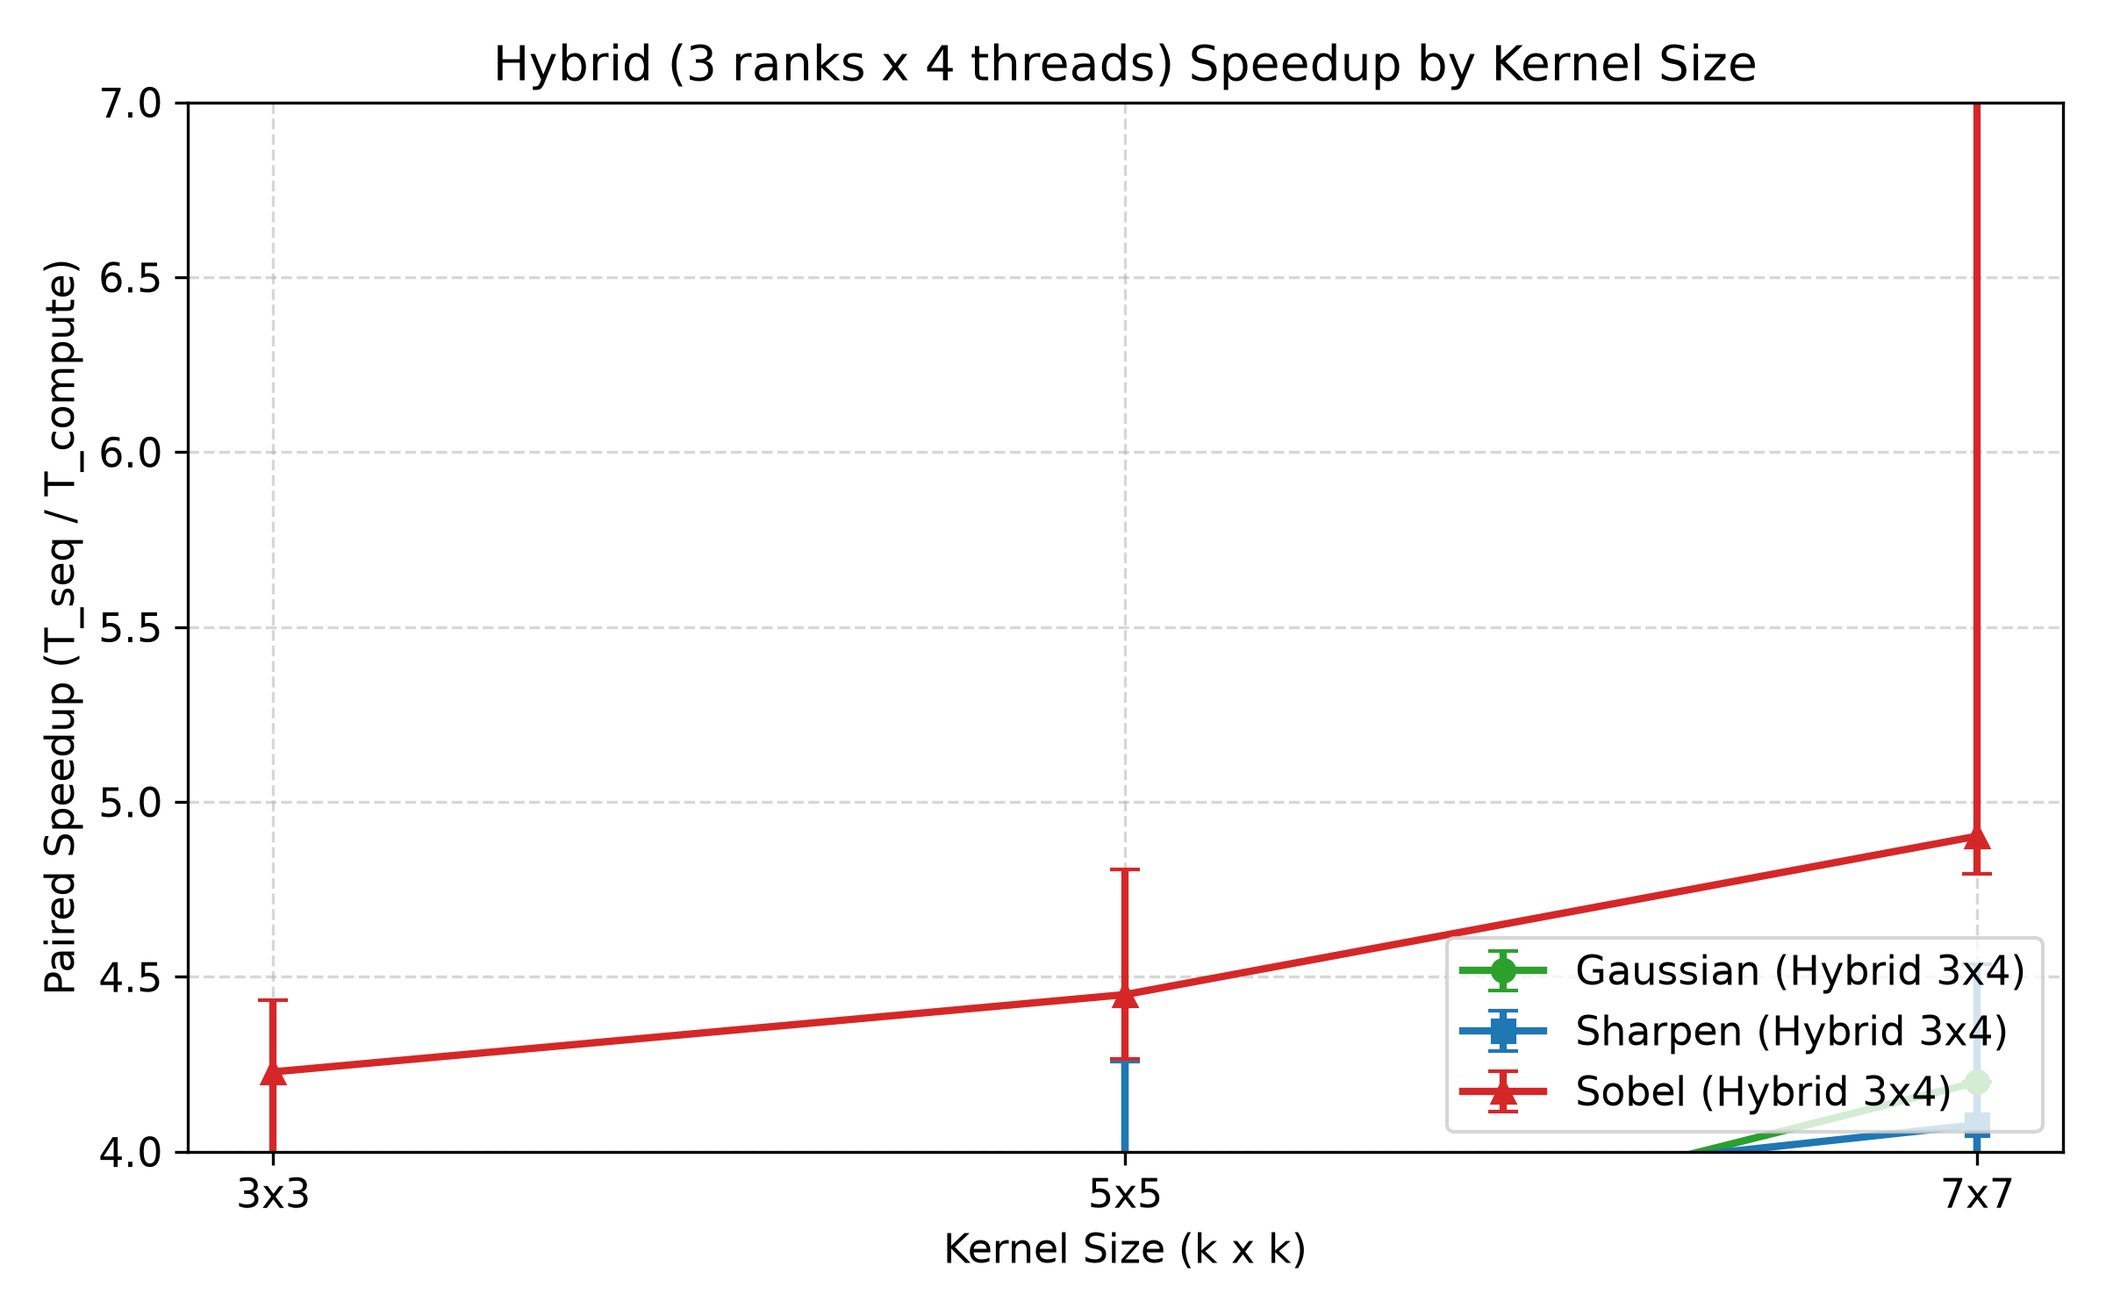
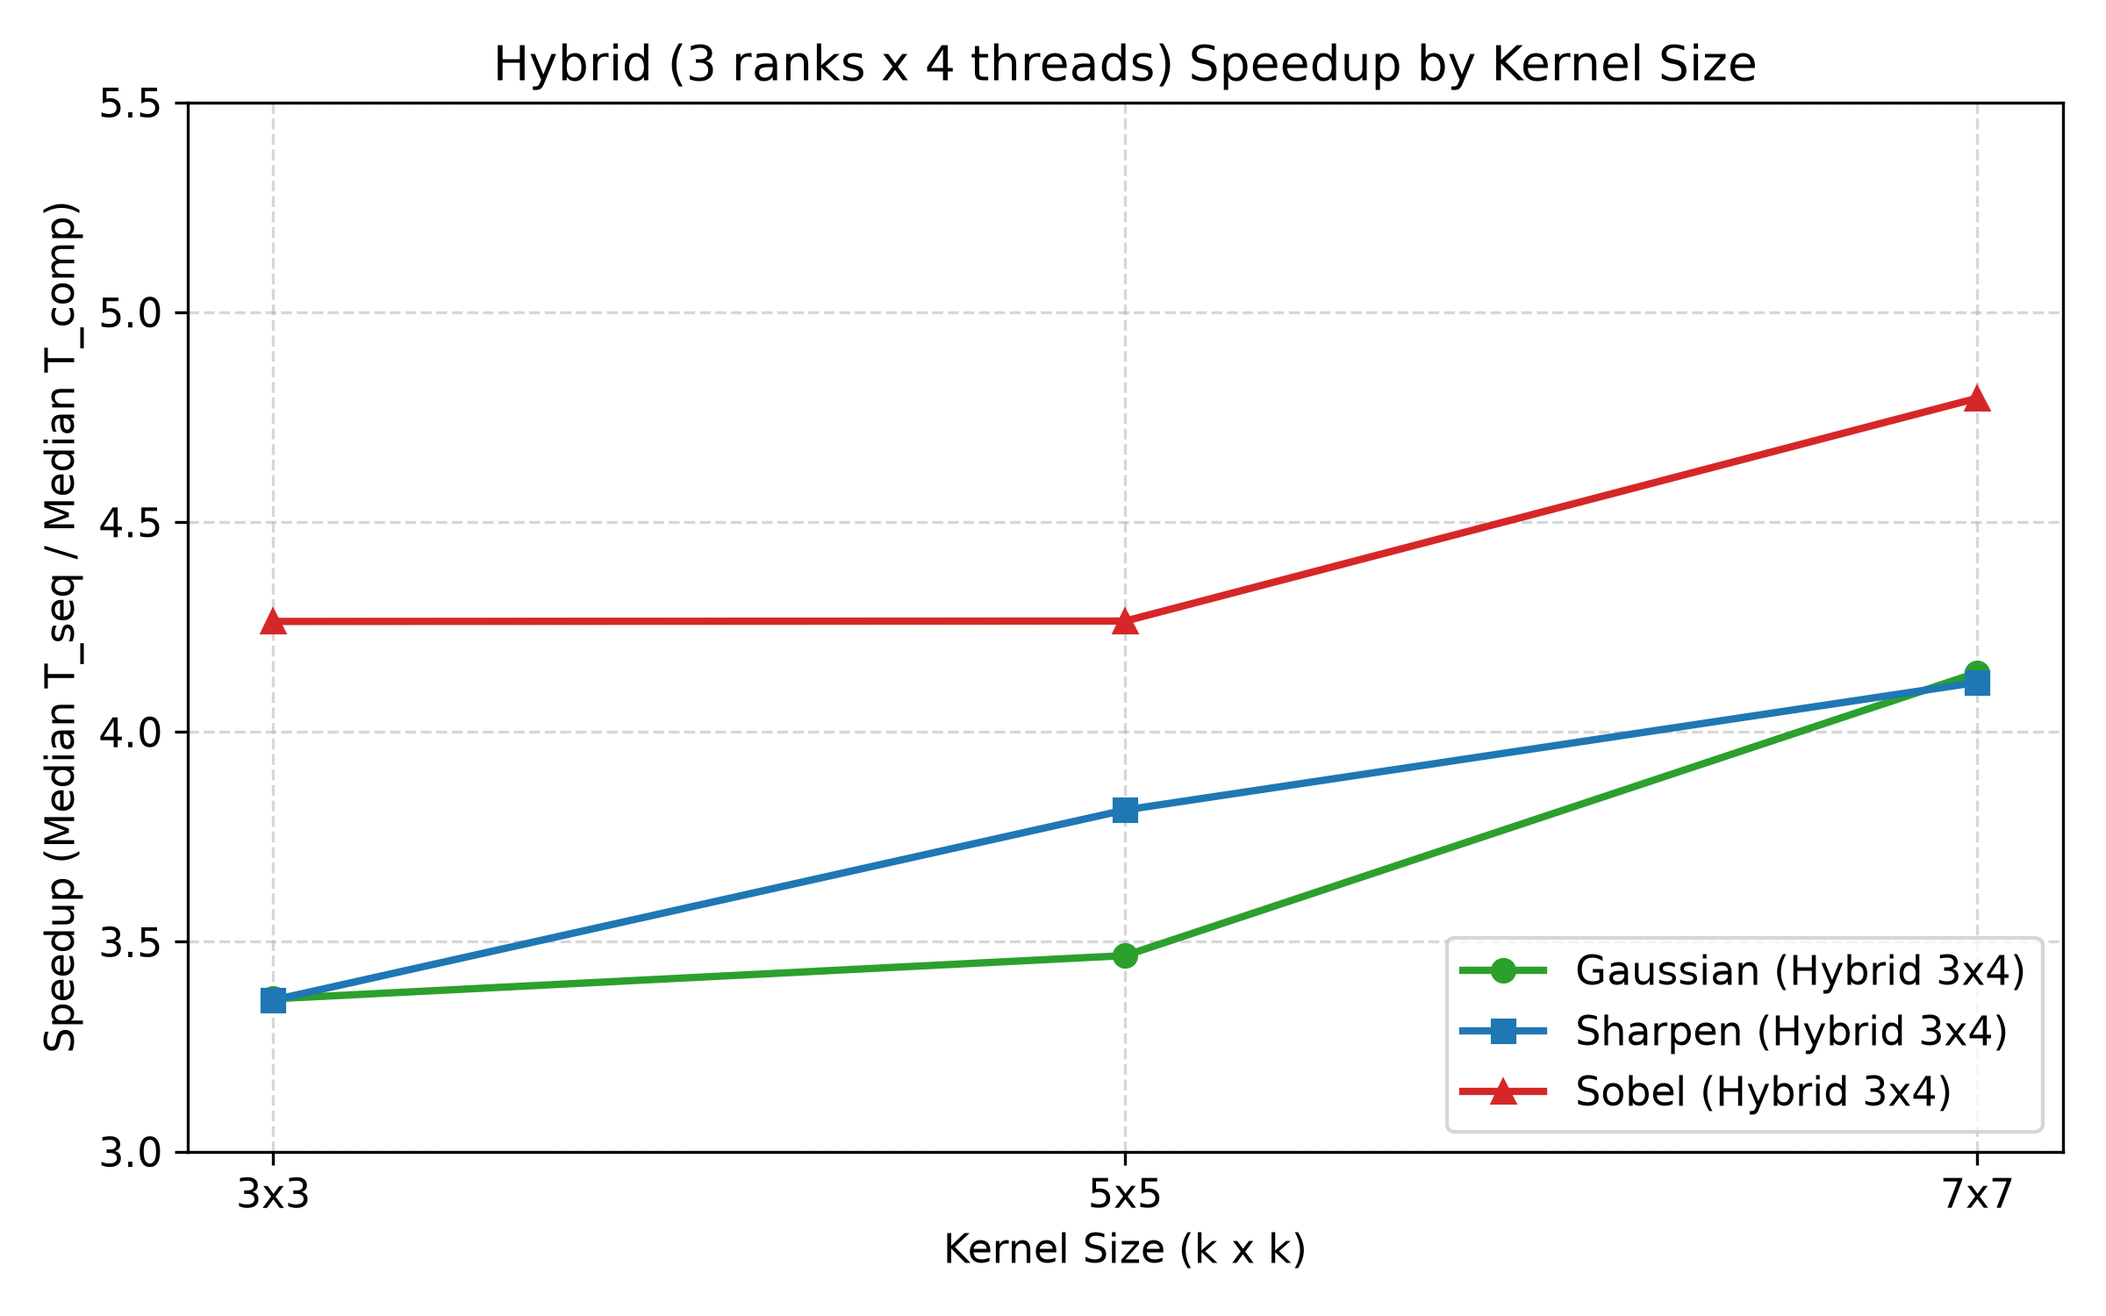
Phase 5b: recompute speedup as ratio of medians, remove ratio spreads, replot with raw time spreads

diff --git a/scripts/plot_final.py b/scripts/plot_final.py
@@ -1,3 +1,4 @@
+#!/usr/bin/env python3
 import csv
 import matplotlib.pyplot as plt
 import numpy as np
@@ -25,37 +26,30 @@ def plot_speedup():
     mpi_rows = sorted([r for r in rows if r['mode'] == 'mpi'], key=lambda x: int(x['total_threads']))
     hyb_rows = [r for r in rows if r['mode'] == 'hybrid']
 
-    # OpenMP
+    # OpenMP (no error bars on ratios)
     x_omp = [int(r['total_threads']) for r in omp_rows]
-    y_omp = [float(r['med_paired_speedup']) for r in omp_rows]
-    yerr_omp = [[float(r['med_paired_speedup']) - float(r['min_paired_speedup']) for r in omp_rows],
-                [float(r['max_paired_speedup']) - float(r['med_paired_speedup']) for r in omp_rows]]
-    ax.errorbar(x_omp, y_omp, yerr=yerr_omp, marker='o', capsize=4,
-                label='OpenMP only (1 process, T threads)', color='#1f77b4', lw=2)
+    y_omp = [float(r['speedup']) for r in omp_rows]
+    ax.plot(x_omp, y_omp, marker='o', label='OpenMP only (1 process, T threads)', color='#1f77b4', lw=2)
 
-    # MPI
+    # MPI (no error bars on ratios)
     x_mpi = [int(r['total_threads']) for r in mpi_rows]
-    y_mpi = [float(r['med_paired_speedup']) for r in mpi_rows]
-    yerr_mpi = [[float(r['med_paired_speedup']) - float(r['min_paired_speedup']) for r in mpi_rows],
-                [float(r['max_paired_speedup']) - float(r['med_paired_speedup']) for r in mpi_rows]]
-    ax.errorbar(x_mpi, y_mpi, yerr=yerr_mpi, marker='s', capsize=4,
-                label='MPI only (P processes, 1 thread)', color='#2ca02c', lw=2)
+    y_mpi = [float(r['speedup']) for r in mpi_rows]
+    ax.plot(x_mpi, y_mpi, marker='s', label='MPI only (P processes, 1 thread)', color='#2ca02c', lw=2)
 
-    # Hybrid
+    # Hybrid points
     for r in hyb_rows:
         x = int(r['total_threads'])
-        y = float(r['med_paired_speedup'])
-        err = [[y - float(r['min_paired_speedup'])], [float(r['max_paired_speedup']) - y]]
-        ax.errorbar([x], [y], yerr=err, marker='^', capsize=4, color='#d62728', markersize=8)
-        ax.annotate(f"{r['procs']}x{r['threads']}", (x, y), textcoords="offset points", xytext=(-10, 8), fontsize=9)
+        y = float(r['speedup'])
+        ax.scatter([x], [y], marker='^', color='#d62728', s=60, zorder=5)
+        ax.annotate(f"{r['procs']}x{r['threads']}", (x, y), textcoords="offset points", xytext=(-12, 8), fontsize=9)
 
-    ax.plot([], [], marker='^', color='#d62728', linestyle='None', label='Hybrid (P x T)')
+    ax.scatter([], [], marker='^', color='#d62728', label='Hybrid (P x T)')
 
     ax.axvline(x=6, color='grey', linestyle=':', lw=1.5)
     ax.text(6.1, 1.5, '6 Physical Cores (SMT beyond)', color='#555555', rotation=90, fontsize=10)
 
     ax.set_xlabel('Total Parallel Threads (P x T)')
-    ax.set_ylabel('Paired Speedup (T_seq / T_compute)')
+    ax.set_ylabel('Speedup (Median T_seq / Median T_comp)')
     ax.set_title('Gaussian 5x5 Speedup vs Total Threads on 20,000x20,000 PGM')
     ax.set_xticks([1, 2, 3, 4, 6, 8, 12])
     ax.set_ylim(0, 13)
@@ -93,7 +87,7 @@ def plot_efficiency():
     ax1.axhline(y=1.0, color='k', linestyle='--', alpha=0.5)
     ax1.axvline(x=6, color='grey', linestyle=':', lw=1.2)
     ax1.set_xlabel('Total Hardware Threads (P x T)')
-    ax1.set_ylabel('Efficiency per Hardware Thread')
+    ax1.set_ylabel('Efficiency per Hardware Thread (Speedup / (P x T))')
     ax1.set_title('Efficiency per Hardware Thread (P x T)')
     ax1.set_xticks([1, 2, 3, 4, 6, 8, 12])
     ax1.set_ylim(0, 1.3)
@@ -118,7 +112,7 @@ def plot_efficiency():
     ax2.axhline(y=1.0, color='k', linestyle='--', alpha=0.5)
     ax2.axvline(x=6, color='grey', linestyle=':', lw=1.2)
     ax2.set_xlabel('Total Threads (P x T)')
-    ax2.set_ylabel('Efficiency per Physical Core (min(P x T, 6))')
+    ax2.set_ylabel('Efficiency per Physical Core (Speedup / min(P x T, 6))')
     ax2.set_title('Efficiency per Physical Core (Capped at 6)')
     ax2.set_xticks([1, 2, 3, 4, 6, 8, 12])
     ax2.set_ylim(0, 1.4)
@@ -136,6 +130,7 @@ def plot_hybrid_compare():
 
     row_map = {(r['mode'], int(r['procs']), int(r['threads'])): r for r in rows}
 
+    # Bars of compute_s with min-max of times as error bars
     combos_12 = [
         ('omp', 1, 12, 'OMP 1x12'),
         ('hybrid', 2, 6, 'Hyb 2x6'),
@@ -144,24 +139,26 @@ def plot_hybrid_compare():
         ('hybrid', 6, 2, 'Hyb 6x2'),
         ('mpi', 12, 1, 'MPI 12x1')
     ]
-    labels_12, sp_12, err_l_12, err_h_12 = [], [], [], []
+    labels_12, times_12, err_l_12, err_h_12 = [], [], [], []
     for m, p, t, l in combos_12:
         r = row_map[(m, p, t)]
         labels_12.append(l)
-        sp = float(r['med_paired_speedup'])
-        sp_12.append(sp)
-        err_l_12.append(sp - float(r['min_paired_speedup']))
-        err_h_12.append(float(r['max_paired_speedup']) - sp)
+        med_t = float(r['med_compute_s'])
+        min_t = float(r['min_compute_s'])
+        max_t = float(r['max_compute_s'])
+        times_12.append(med_t)
+        err_l_12.append(med_t - min_t)
+        err_h_12.append(max_t - med_t)
 
-    bars1 = ax1.bar(labels_12, sp_12, yerr=[err_l_12, err_h_12], capsize=5,
+    bars1 = ax1.bar(labels_12, times_12, yerr=[err_l_12, err_h_12], capsize=5,
                     color=['#1f77b4', '#d62728', '#2ca02c', '#d62728', '#d62728', '#9467bd'], alpha=0.85)
-    ax1.set_ylabel('Paired Speedup (T_seq / T_compute)')
-    ax1.set_title('All 12-Thread Configurations (P x T = 12)')
-    ax1.set_ylim(0, 8.0)
+    ax1.set_ylabel('Compute Time (seconds)')
+    ax1.set_title('12-Thread Configurations (Compute Time, min-max range)')
+    ax1.set_ylim(0, 6.5)
     ax1.grid(True, axis='y', linestyle='--', alpha=0.5)
     for bar in bars1:
         yval = bar.get_height()
-        ax1.text(bar.get_x() + bar.get_width()/2.0, yval + 0.15, f"{yval:.2f}x", ha='center', va='bottom', fontsize=9)
+        ax1.text(bar.get_x() + bar.get_width()/2.0, yval + 0.15, f"{yval:.2f}s", ha='center', va='bottom', fontsize=9)
 
     combos_6 = [
         ('omp', 1, 6, 'OMP 1x6'),
@@ -169,24 +166,26 @@ def plot_hybrid_compare():
         ('hybrid', 3, 2, 'Hyb 3x2'),
         ('mpi', 6, 1, 'MPI 6x1')
     ]
-    labels_6, sp_6, err_l_6, err_h_6 = [], [], [], []
+    labels_6, times_6, err_l_6, err_h_6 = [], [], [], []
     for m, p, t, l in combos_6:
         r = row_map[(m, p, t)]
         labels_6.append(l)
-        sp = float(r['med_paired_speedup'])
-        sp_6.append(sp)
-        err_l_6.append(sp - float(r['min_paired_speedup']))
-        err_h_6.append(float(r['max_paired_speedup']) - sp)
+        med_t = float(r['med_compute_s'])
+        min_t = float(r['min_compute_s'])
+        max_t = float(r['max_compute_s'])
+        times_6.append(med_t)
+        err_l_6.append(med_t - min_t)
+        err_h_6.append(max_t - med_t)
 
-    bars2 = ax2.bar(labels_6, sp_6, yerr=[err_l_6, err_h_6], capsize=5,
+    bars2 = ax2.bar(labels_6, times_6, yerr=[err_l_6, err_h_6], capsize=5,
                     color=['#1f77b4', '#d62728', '#d62728', '#9467bd'], alpha=0.85)
-    ax2.set_ylabel('Paired Speedup (T_seq / T_compute)')
-    ax2.set_title('All 6-Physical-Core Configurations (P x T = 6)')
-    ax2.set_ylim(0, 7.0)
+    ax2.set_ylabel('Compute Time (seconds)')
+    ax2.set_title('6-Physical-Core Configurations (Compute Time, min-max range)')
+    ax2.set_ylim(0, 8.0)
     ax2.grid(True, axis='y', linestyle='--', alpha=0.5)
     for bar in bars2:
         yval = bar.get_height()
-        ax2.text(bar.get_x() + bar.get_width()/2.0, yval + 0.15, f"{yval:.2f}x", ha='center', va='bottom', fontsize=9)
+        ax2.text(bar.get_x() + bar.get_width()/2.0, yval + 0.15, f"{yval:.2f}s", ha='center', va='bottom', fontsize=9)
 
     plt.tight_layout()
     plt.savefig('results/final_hybrid_compare.png')
@@ -204,18 +203,17 @@ def plot_kernels():
     for filt in filters:
         sub = sorted([r for r in rows if r['filter'] == filt], key=lambda x: int(x['k']))
         x = [int(r['k']) for r in sub]
-        y = [float(r['med_paired_speedup']) for r in sub]
-        yerr = [[y[i] - float(sub[i]['min_paired_speedup']) for i in range(len(sub))],
-                [float(sub[i]['max_paired_speedup']) - y[i] for i in range(len(sub))]]
-        ax.errorbar(x, y, yerr=yerr, marker=markers[filt], color=colors[filt], lw=2, capsize=4,
-                    label=f"{filt.capitalize()} (Hybrid 3x4)")
+        y = [float(r['speedup']) for r in sub]
+        # No ratio error bars
+        ax.plot(x, y, marker=markers[filt], color=colors[filt], lw=2,
+                label=f"{filt.capitalize()} (Hybrid 3x4)")
 
     ax.set_xlabel('Kernel Size (k x k)')
-    ax.set_ylabel('Paired Speedup (T_seq / T_compute)')
+    ax.set_ylabel('Speedup (Median T_seq / Median T_comp)')
     ax.set_title('Hybrid (3 ranks x 4 threads) Speedup by Kernel Size')
     ax.set_xticks([3, 5, 7])
     ax.set_xticklabels(['3x3', '5x5', '7x7'])
-    ax.set_ylim(4.0, 7.0)
+    ax.set_ylim(3.0, 5.5)
     ax.grid(True, linestyle='--', alpha=0.5)
     ax.legend(loc='lower right')
 

diff --git a/scripts/analyze_final.py b/scripts/analyze_final.py
@@ -1,8 +1,9 @@
-#!/usr/bin/env bash
-# scripts/analyze_final.py - Generates final benchmark summaries
+#!/usr/bin/env python3
+# scripts/analyze_final.py - Generates final benchmark summaries using ratio-of-medians speedup
 
 import csv
 from collections import defaultdict
+import statistics
 
 def analyze_main():
     rows = []
@@ -11,18 +12,19 @@ def analyze_main():
         for r in reader:
             rows.append(r)
 
-    # 1. Map sequential compute_s per repetition
-    seq_compute = {}
-    seq_total = {}
+    # 1. Map sequential compute_s and total_s across reps
+    seq_compute_list = []
+    seq_total_list = []
     for r in rows:
         if r['mode'] == 'seq':
-            rep = int(r['rep'])
-            seq_compute[rep] = float(r['compute_s'])
-            seq_total[rep] = float(r['total_s'])
+            seq_compute_list.append(float(r['compute_s']))
+            seq_total_list.append(float(r['total_s']))
 
-    # Print sequential spread
-    seq_vals = sorted(seq_compute.values())
-    print(f"Sequential compute_s spread across 5 reps: min={seq_vals[0]:.3f}s, median={seq_vals[2]:.3f}s, max={seq_vals[-1]:.3f}s (ratio max/min = {seq_vals[-1]/seq_vals[0]:.2f})")
+    med_seq_compute = statistics.median(seq_compute_list)
+    med_seq_total = statistics.median(seq_total_list)
+
+    seq_vals = sorted(seq_compute_list)
+    print(f"Sequential compute_s across 5 reps: min={seq_vals[0]:.3f}s, median={med_seq_compute:.3f}s, max={seq_vals[-1]:.3f}s (ratio max/min = {seq_vals[-1]/seq_vals[0]:.2f})")
 
     # 2. Group by (mode, procs, threads)
     groups = defaultdict(list)
@@ -30,16 +32,11 @@ def analyze_main():
         mode = r['mode']
         p = int(r['procs'])
         t = int(r['threads'])
-        rep = int(r['rep'])
         cs = float(r['compute_s'])
         ts = float(r['total_s'])
-        paired_sp = seq_compute[rep] / cs
-        paired_total_sp = seq_total[rep] / ts
         groups[(mode, p, t)].append({
             'compute_s': cs,
             'total_s': ts,
-            'paired_sp': paired_sp,
-            'paired_total_sp': paired_total_sp,
             'scatter_s': float(r['scatter_s']) if r['scatter_s'] else 0.0,
             'halo_s': float(r['halo_s']) if r['halo_s'] else 0.0,
             'conv_s': float(r['conv_s']) if r['conv_s'] else 0.0,
@@ -51,27 +48,22 @@ def analyze_main():
     for (mode, p, t), entries in groups.items():
         cs_list = sorted([e['compute_s'] for e in entries])
         ts_list = sorted([e['total_s'] for e in entries])
-        sp_list = sorted([e['paired_sp'] for e in entries])
-        tot_sp_list = sorted([e['paired_total_sp'] for e in entries])
 
-        n = len(entries)
-        med_cs = cs_list[n // 2]
+        med_cs = statistics.median(cs_list)
         min_cs = cs_list[0]
         max_cs = cs_list[-1]
 
-        med_ts = ts_list[n // 2]
+        med_ts = statistics.median(ts_list)
         min_ts = ts_list[0]
         max_ts = ts_list[-1]
 
-        med_sp = sp_list[n // 2]
-        min_sp = sp_list[0]
-        max_sp = sp_list[-1]
-
-        med_tot_sp = tot_sp_list[n // 2]
+        # Single consistent speedup definition: ratio of medians
+        sp = med_seq_compute / med_cs
+        tot_sp = med_seq_total / med_ts
 
         total_threads = p * t
-        eff_hw = med_sp / total_threads
-        eff_core = med_sp / min(total_threads, 6)
+        eff_hw = sp / total_threads
+        eff_core = sp / min(total_threads, 6)
 
         summary_rows.append({
             'mode': mode,
@@ -84,12 +76,10 @@ def analyze_main():
             'med_total_s': f"{med_ts:.3f}",
             'min_total_s': f"{min_ts:.3f}",
             'max_total_s': f"{max_ts:.3f}",
-            'med_paired_speedup': f"{med_sp:.3f}",
-            'min_paired_speedup': f"{min_sp:.3f}",
-            'max_paired_speedup': f"{max_sp:.3f}",
+            'speedup': f"{sp:.3f}",
             'eff_hw_thread': f"{eff_hw:.3f}",
             'eff_core': f"{eff_core:.3f}",
-            'med_total_speedup': f"{med_tot_sp:.3f}"
+            'total_speedup': f"{tot_sp:.3f}"
         })
 
     # Sort logically
@@ -100,8 +90,7 @@ def analyze_main():
         fieldnames = ['mode', 'procs', 'threads', 'total_threads',
                       'med_compute_s', 'min_compute_s', 'max_compute_s',
                       'med_total_s', 'min_total_s', 'max_total_s',
-                      'med_paired_speedup', 'min_paired_speedup', 'max_paired_speedup',
-                      'eff_hw_thread', 'eff_core', 'med_total_speedup']
+                      'speedup', 'eff_hw_thread', 'eff_core', 'total_speedup']
         writer = csv.DictWriter(f, fieldnames=fieldnames)
         writer.writeheader()
         writer.writerows(summary_rows)
@@ -121,13 +110,12 @@ def analyze_main():
         entries = groups.get(cfg, [])
         if not entries:
             continue
-        n = len(entries)
-        sc = sorted([e['scatter_s'] for e in entries])[n // 2]
-        hl = sorted([e['halo_s'] for e in entries])[n // 2]
-        cv = sorted([e['conv_s'] for e in entries])[n // 2]
-        cp = sorted([e['compute_s'] for e in entries])[n // 2]
-        gt = sorted([e['gather_s'] for e in entries])[n // 2]
-        tt = sorted([e['total_s'] for e in entries])[n // 2]
+        sc = statistics.median([e['scatter_s'] for e in entries])
+        hl = statistics.median([e['halo_s'] for e in entries])
+        cv = statistics.median([e['conv_s'] for e in entries])
+        cp = statistics.median([e['compute_s'] for e in entries])
+        gt = statistics.median([e['gather_s'] for e in entries])
+        tt = statistics.median([e['total_s'] for e in entries])
         non_compute_share = (tt - cp) / tt * 100.0
 
         bd_rows.append({
@@ -158,57 +146,49 @@ def analyze_kernels():
         for r in reader:
             rows.append(r)
 
-    # Map sequential per rep, filter, k
-    seq_map = {}
-    for r in rows:
-        if r['mode'] == 'seq':
-            k_key = (r['filter'], int(r['k']), int(r['rep']))
-            seq_map[k_key] = float(r['compute_s'])
-
-    # Group hybrid (3,4) by filter, k
+    # Group sequential and hybrid (3,4) by filter, k
     groups = defaultdict(list)
     seq_groups = defaultdict(list)
     for r in rows:
         filt = r['filter']
         k = int(r['k'])
-        rep = int(r['rep'])
+        cs = float(r['compute_s'])
         if r['mode'] == 'seq':
-            seq_groups[(filt, k)].append(float(r['compute_s']))
+            seq_groups[(filt, k)].append(cs)
         elif r['mode'] == 'hybrid':
-            cs = float(r['compute_s'])
-            seq_cs = seq_map[(filt, k, rep)]
-            sp = seq_cs / cs
-            groups[(filt, k)].append({
-                'hybrid_cs': cs,
-                'paired_sp': sp
-            })
+            groups[(filt, k)].append(cs)
 
     kernel_summary = []
     for (filt, k), entries in sorted(groups.items()):
         seq_vals = sorted(seq_groups[(filt, k)])
-        hyb_vals = sorted([e['hybrid_cs'] for e in entries])
-        sp_vals = sorted([e['paired_sp'] for e in entries])
+        hyb_vals = sorted(entries)
 
-        n = len(entries)
-        med_seq = seq_vals[len(seq_vals) // 2]
-        med_hyb = hyb_vals[n // 2]
-        med_sp = sp_vals[n // 2]
-        min_sp = sp_vals[0]
-        max_sp = sp_vals[-1]
+        med_seq = statistics.median(seq_vals)
+        min_seq = seq_vals[0]
+        max_seq = seq_vals[-1]
+
+        med_hyb = statistics.median(hyb_vals)
+        min_hyb = hyb_vals[0]
+        max_hyb = hyb_vals[-1]
+
+        # Ratio of medians
+        sp = med_seq / med_hyb
 
         kernel_summary.append({
             'filter': filt,
             'k': k,
             'med_seq_compute_s': f"{med_seq:.3f}",
+            'min_seq_compute_s': f"{min_seq:.3f}",
+            'max_seq_compute_s': f"{max_seq:.3f}",
             'med_hybrid_compute_s': f"{med_hyb:.3f}",
-            'med_paired_speedup': f"{med_sp:.3f}",
-            'min_paired_speedup': f"{min_sp:.3f}",
-            'max_paired_speedup': f"{max_sp:.3f}"
+            'min_hybrid_compute_s': f"{min_hyb:.3f}",
+            'max_hybrid_compute_s': f"{max_hyb:.3f}",
+            'speedup': f"{sp:.3f}"
         })
 
     with open('results/final_summary_kernels.csv', 'w', newline='') as f:
-        fieldnames = ['filter', 'k', 'med_seq_compute_s', 'med_hybrid_compute_s',
-                      'med_paired_speedup', 'min_paired_speedup', 'max_paired_speedup']
+        fieldnames = ['filter', 'k', 'med_seq_compute_s', 'min_seq_compute_s', 'max_seq_compute_s',
+                      'med_hybrid_compute_s', 'min_hybrid_compute_s', 'max_hybrid_compute_s', 'speedup']
         writer = csv.DictWriter(f, fieldnames=fieldnames)
         writer.writeheader()
         writer.writerows(kernel_summary)
